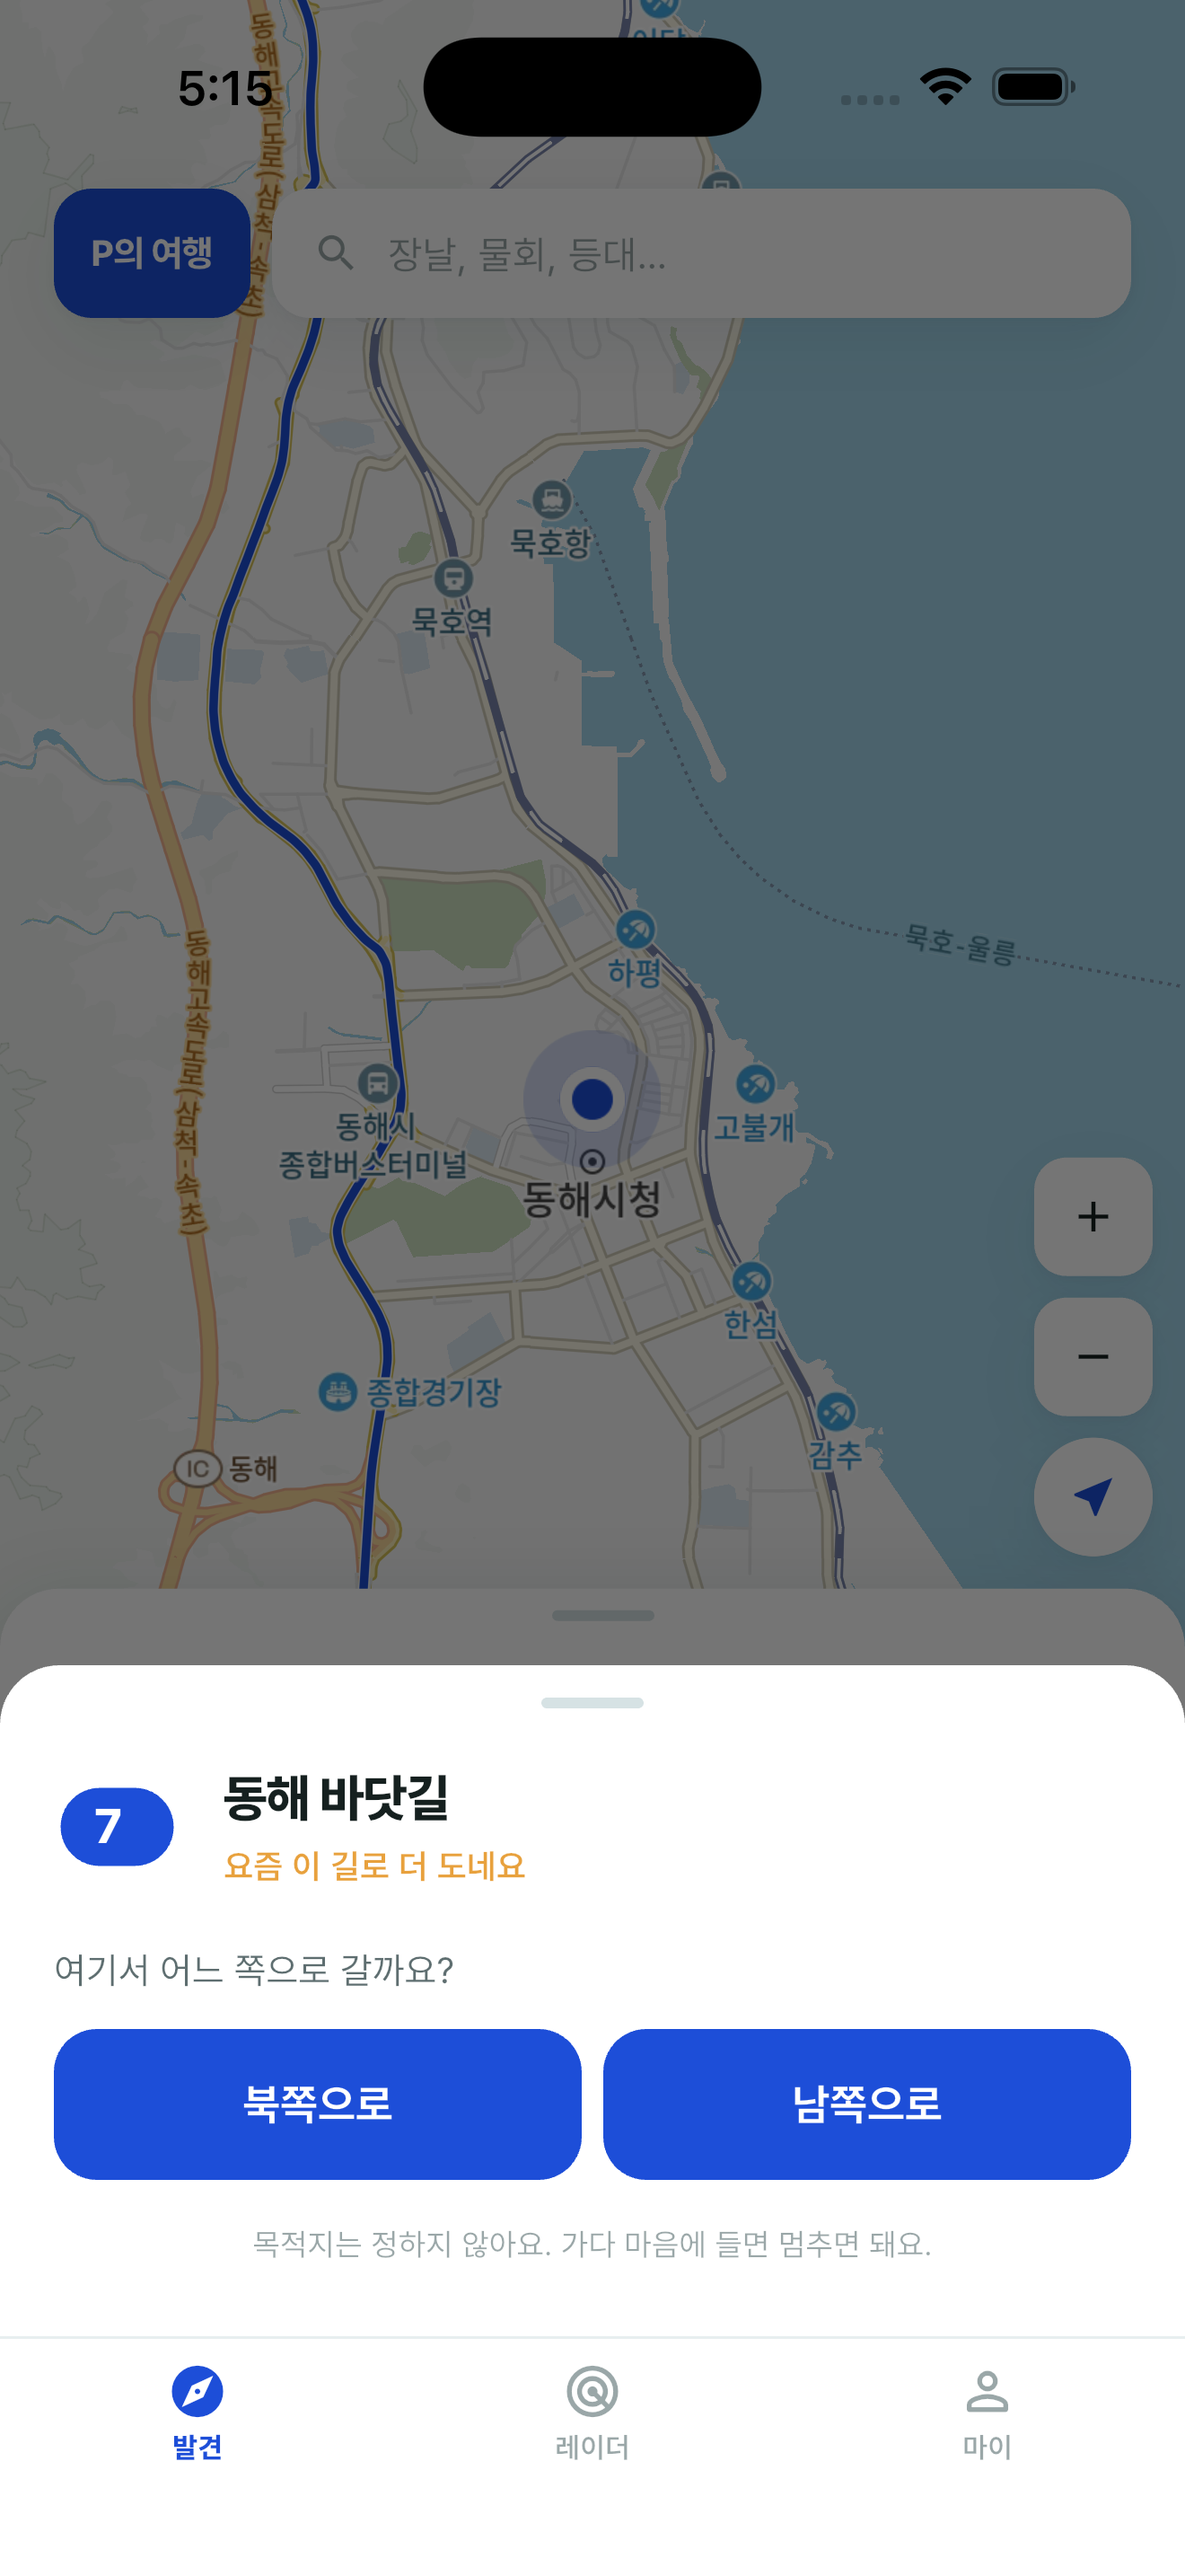
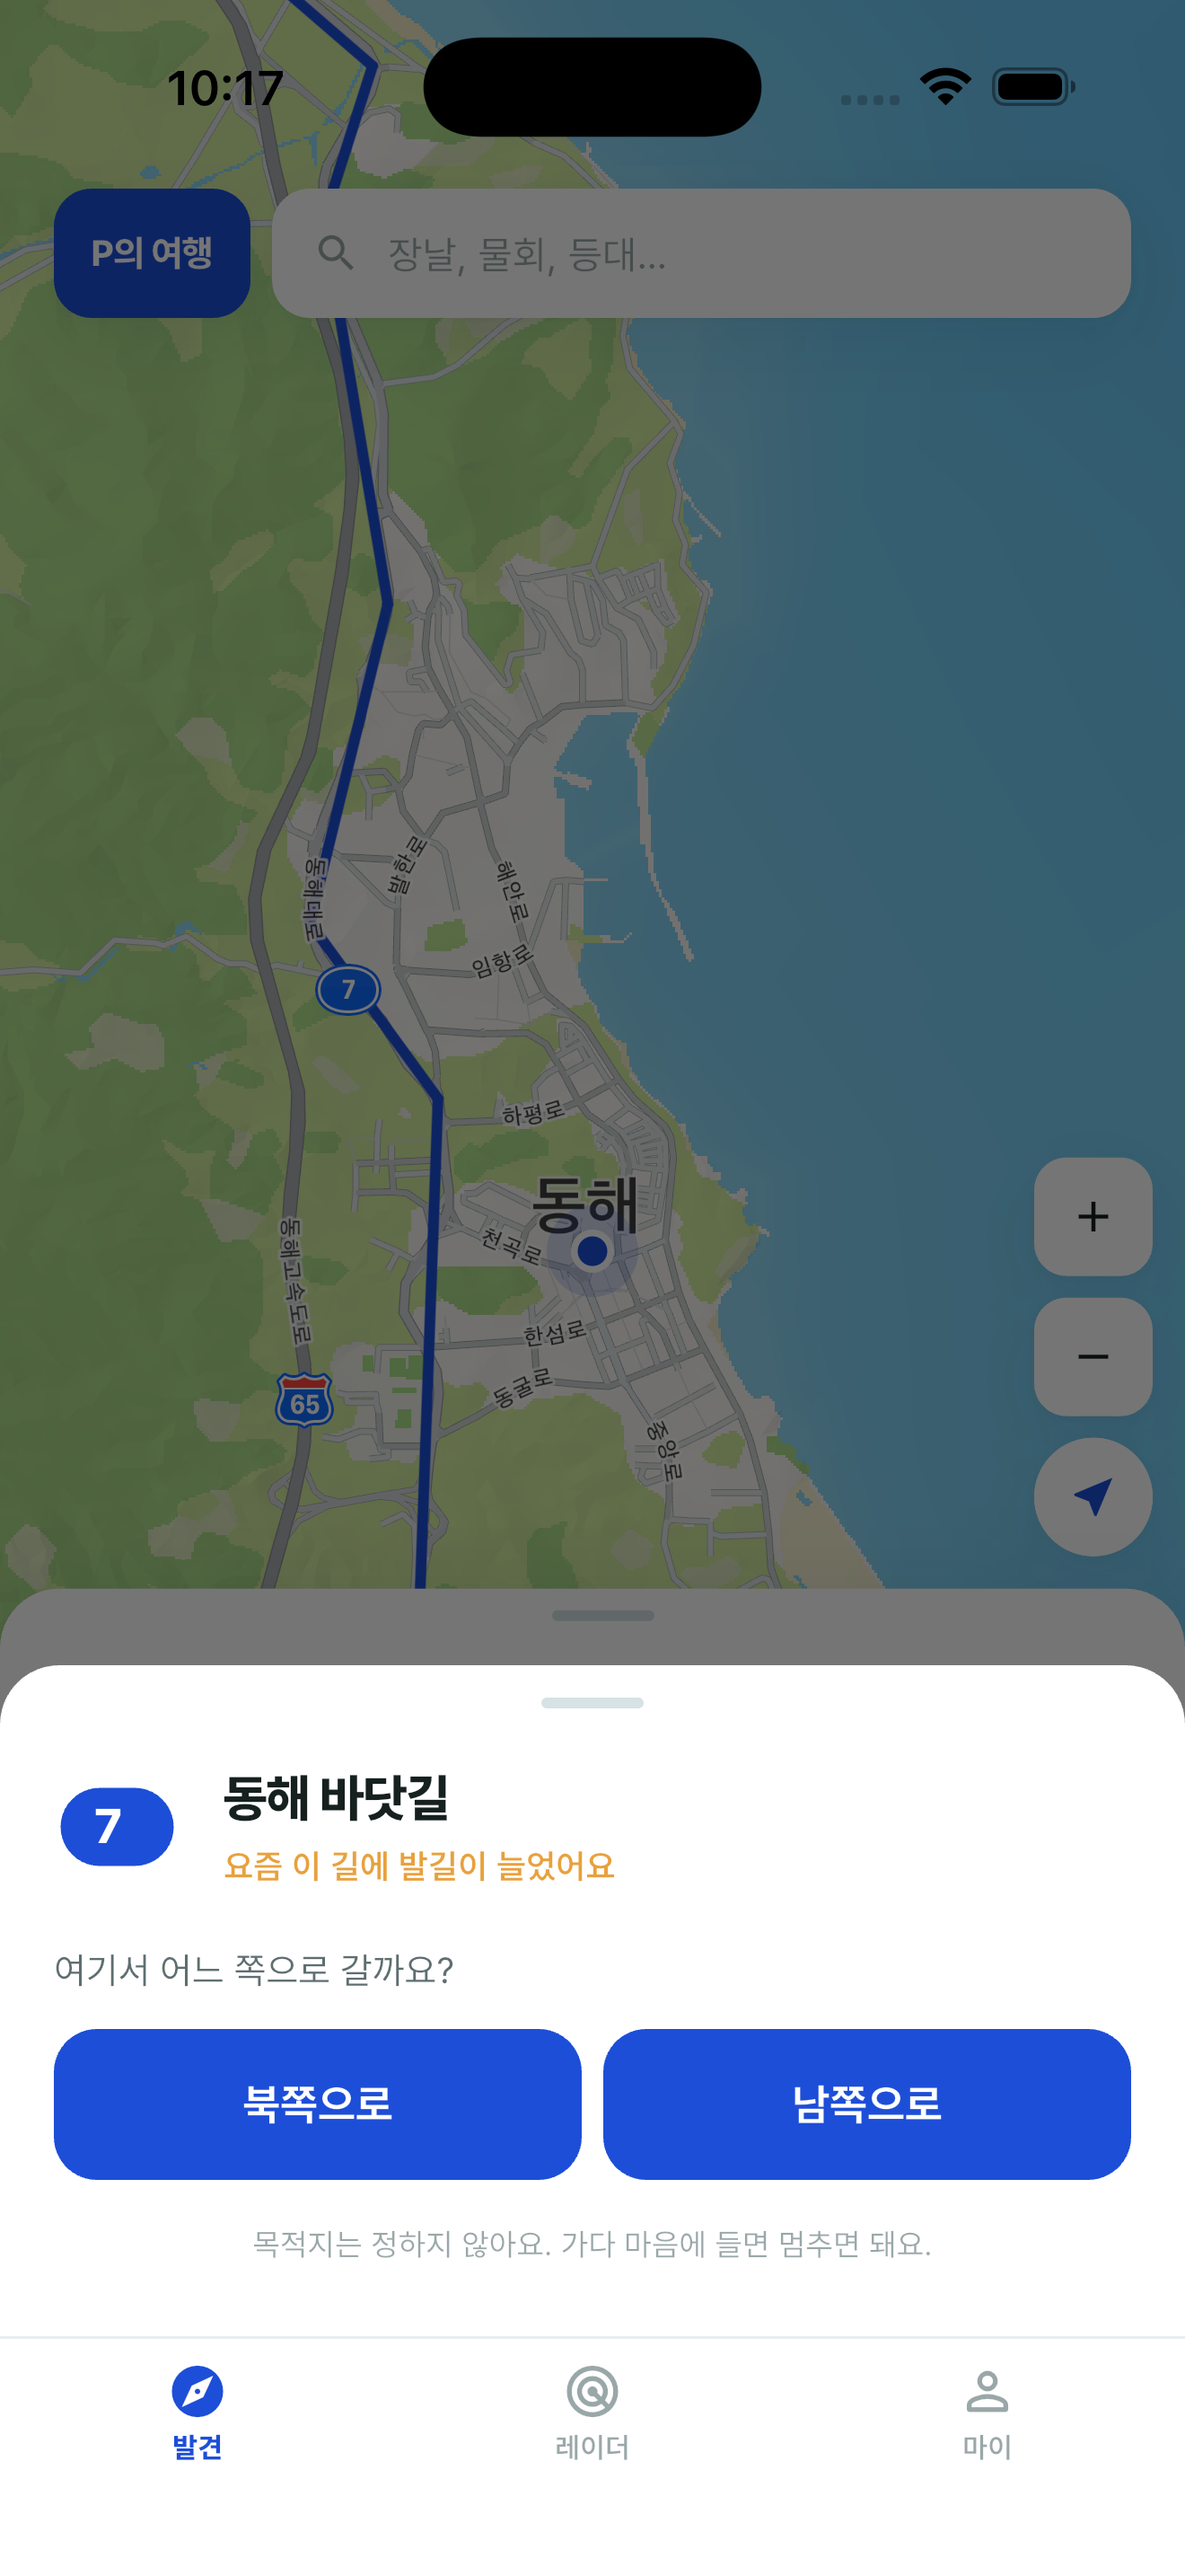
docs(store): 출발 시트·발견 카드·레이더 스크린샷을 현재 앱으로 다시 찍는다 + release.py cancel
2·3·4번이 카카오 지도·「국도에서 N분」·거점 칩 시절 것이었다. iPhone 17 Pro Max 시뮬레이터,
동해 좌표, 데모 주행(임시 주입, 커밋 안 함)으로 다시 찍었다. 심사 대기 중엔 스크린샷을 못 바꾸므로
release.py 에 cancel 을 두고 취소 → 교체 → 재제출했다. 촬영 방법은 출시_절차 §5-4-1.

diff --git a/tools/asc/release.py b/tools/asc/release.py
@@ -4,6 +4,7 @@
     python3 tools/asc/release.py version 1.0.2   # 버전 레코드 만들고 텍스트·심사노트·스크린샷 채운다 (되돌릴 수 있다)
     python3 tools/asc/release.py attach  1.0.2 7 # 빌드 7 이 처리되길 기다렸다가 버전에 붙인다
     python3 tools/asc/release.py submit  1.0.2   # ⚠ 심사 제출. 바깥으로 나가는 유일한 단계
+    python3 tools/asc/release.py cancel          # 대기 중인 제출을 거둔다 (고치고 다시 submit)
 
 `version`·`attach` 는 몇 번 다시 돌려도 같은 결과다. `submit` 만 한 번이다.
 """
@@ -146,8 +147,24 @@ def cmd_submit(ver):
     print("  state:", r["data"]["attributes"].get("state"))
 
 
+def cmd_cancel():
+    """심사 대기 중인 제출을 거둔다 — 스크린샷·텍스트를 고치려면 먼저 이걸 해야 한다.
+    CANCELING → COMPLETE 로 바뀐 뒤에 다시 `submit` 한다."""
+    rs = a.get(f"reviewSubmissions?filter[app]={a.APP}&filter[state]=WAITING_FOR_REVIEW,IN_REVIEW,READY_FOR_REVIEW,UNRESOLVED_ISSUES&limit=5").get("data", [])
+    if not rs: print("  거둘 제출이 없다"); return
+    for r in rs:
+        rid = r["id"]
+        a.show(f"제출 취소 {rid} ({r['attributes'].get('state')})",
+               a.patch(f"reviewSubmissions/{rid}", {"data": {"type": "reviewSubmissions", "id": rid, "attributes": {"canceled": True}}}))
+        for _ in range(30):
+            st = a.get(f"reviewSubmissions/{rid}")["data"]["attributes"].get("state")
+            if st == "COMPLETE": print("  → COMPLETE"); break
+            print(f"  … {st}"); time.sleep(5)
+
+
 if __name__ == "__main__":
     cmd, args = sys.argv[1], sys.argv[2:]
     {"version": lambda: cmd_version(args[0]),
      "attach": lambda: cmd_attach(args[0], args[1]),
-     "submit": lambda: cmd_submit(args[0])}[cmd]()
+     "submit": lambda: cmd_submit(args[0]),
+     "cancel": cmd_cancel}[cmd]()

diff --git a/docs/출시_절차.md b/docs/출시_절차.md
@@ -178,8 +178,18 @@ python3 tools/asc/release.py submit 1.0.2              # ⚠ 바깥으로 나가
 python3 tools/asc/shot_replace.py 1.0.2 docs/screenshots/1_home.png   # 스크린샷 한 장만 갈 때
 ```
 ⚠ `release.py` 는 **저장소 루트에서** 부른다. `app/` 에서 부르면 경로가 안 맞는다 (한 번 그랬다).
-⚠ 홈 스크린샷은 iPhone 17 Pro Max 시뮬레이터(1320×2868)에서 `FAKE_LOCATION=37.5245,129.1143` +
-  `START_AT=/`(온보딩 게이트 건너뜀)로 찍는다.
+⚠ 스크린샷은 iPhone 17 Pro Max 시뮬레이터(1320×2868)에서 `FAKE_LOCATION=37.5245,129.1143` +
+  `DEMO_BUILD=true` 로 찍는다 (2026-09-09 다섯 장 전부 이 방식).
+  - 1 홈: `START_AT=/` (온보딩 게이트 건너뜀)
+  - 2 출발 시트: `START_AT=/ DEPART_AT=7`
+  - 3 발견 카드 · 4 레이더: 주행 중 상태가 필요하다. 레이더 `initState` 에 **임시** 코드를 넣어
+    (`SHOT_JOURNEY` 플래그 → `routePathAhead(7)` 로 여정을 만들고 `_setRunning(true)`, 9초 뒤 큐의
+    두 곳을 `addStop(visited)`) 데모 주행을 자동 시작시키고, 카드는 `AUTO_CARD=false`(레이더) /
+    기본(카드)으로 가른다. 찍고 나서 `git checkout` 으로 되돌린다 — **커밋하지 않는다.**
+  ⚠ dart-define 을 **변수에 모아 `$VAR` 로 넘기지 말 것.** zsh 가 단어 분리를 안 해 키가 통째로
+    하나가 되고, 앱이 조용히 픽스처로 돈다 — 카드에 '동해IC 진출로' 가 뜨면 그 증상이다.
+    파일에 적고 `$(cat defs.txt)` 로 넘긴다.
+  - 한 장만 갈 땐 `tools/asc/shot_replace.py`. 심사 대기 중이면 `release.py cancel` 먼저.
 
 ## 5-5. 스토어 정보는 API로 채운다 (2026-08-30 완료)
 
